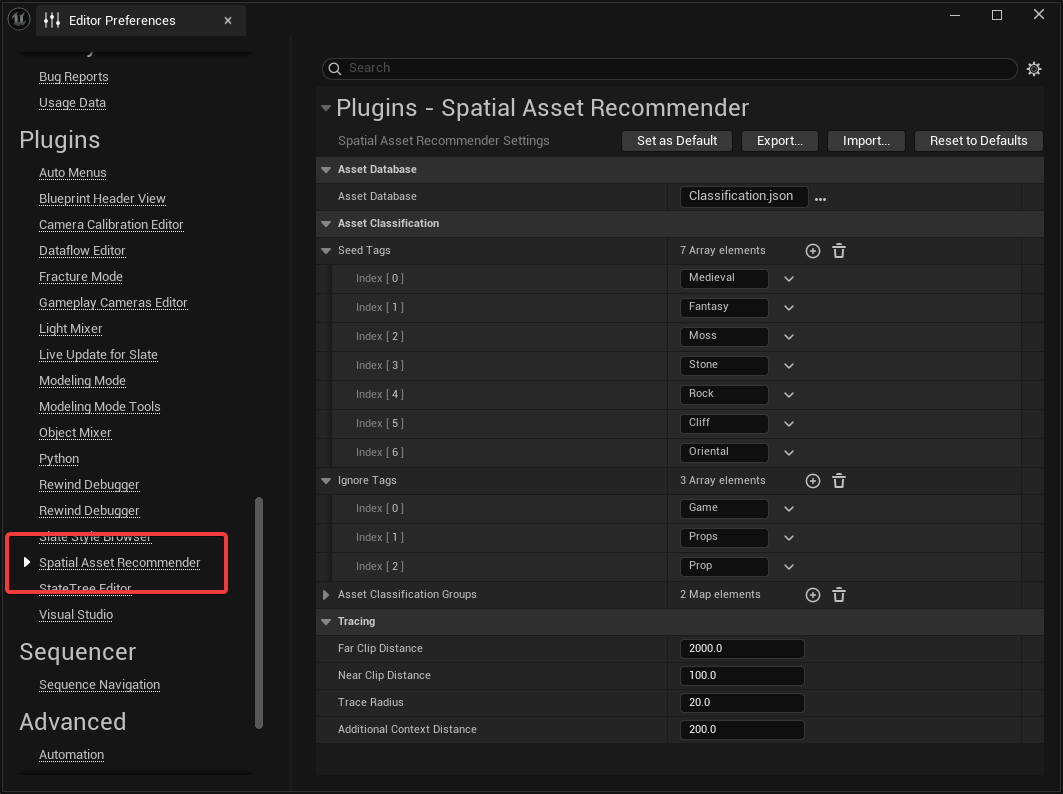
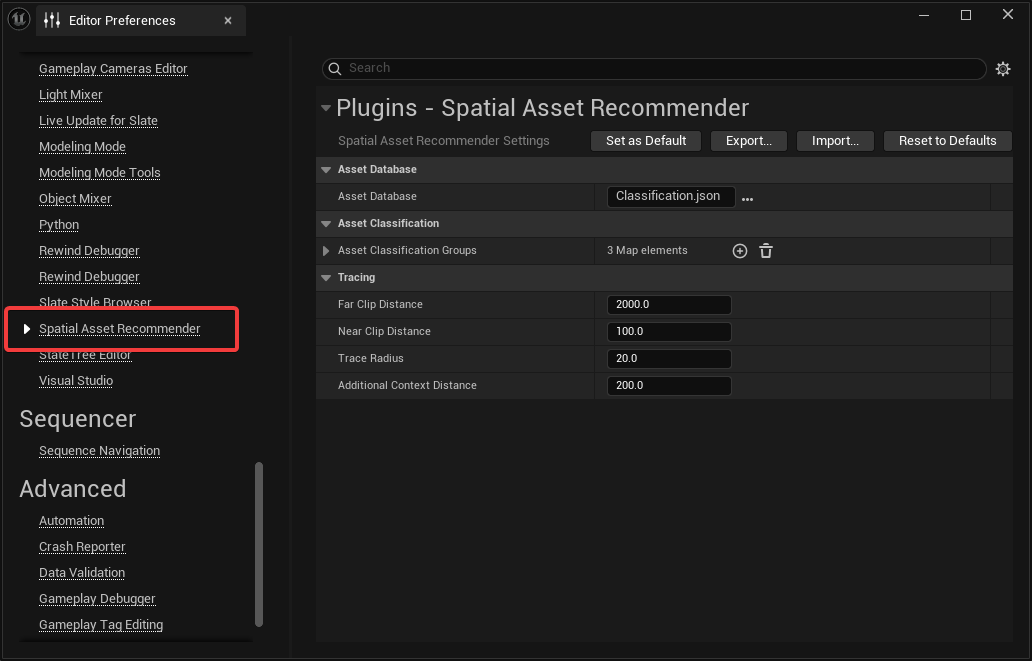
updates documentation, updates screenshots

diff --git a/Default-Classifiers/index.md b/Default-Classifiers/index.md
@@ -11,24 +11,53 @@ It also ignores numbers, so that _Variation05_ will only be tagged as _Variation
 - `Ignore Prefixes`: The classifier ignores asset prefixes such as `SM_`, `T_`, `SK_` and `M_`.
 - `Ignore Names`: These words will be ignored even if they appear in the middle of an asset name.
 
-## Open API Classifier
+## Chat Completions Classifier
 
-The Open API Classifier uses an OpenAI API to classify assets.
-It supports the asset name, the _seed tags_ and _ignore tags_ global lists, the asset metadata and thumbnails.
+The Chat Completions Classifier uses a Chat Completions API to classify assets.
+It supports the asset name, the asset metadata and thumbnails.
+
+The Classifier works in two passes:
+
+1. Collect structured data for all assets. This structured data is then injected into the second pass.
+2. Generate the tags for the assets.
+
+### Prepass
+
+During the prepass, the classifier asks the API about each asset individually.
+The API is tasked to complete a structure of asset description based on its content, materials and the properties of that material.
+
+In the end, the classifier will ask the API to "compress" the structure by removing or collapsing duplicate values.
+This will shrink the data size, which reduces token usage in the classification pass and can lead to better results overall.
+
+The gathered structured data is then used in the classification pass.
+
+### Classification Pass
+
+The classification pass is used to actually generate weighted tags for the individual assets.
+The AI model is only allowed to pick tags from the structure collected during the prepass.
+The classifier then connects the structured data to create weighted tags for the asset database.
+
+### Settings
 
 Each request will be a system prompt (text) and a user prompt (potentially multimodal).
 
 - `API URL`: The url of the API, including the `v1`. Example: `http://localhost:8080/v1`.
 - `API Key`: The authorization key, if needed.
 - `Model`: The name of the model to use for this classifier. If your API supports different models, you can pick different models for each classification group.
+- `Classification Temperature`: Temperature for the AI requests. This is usually a value between `0.0` and `2.0`. Values closer to `0.0` lead to more precise output, while higher values lead to more creative output.
 - `System Prompt`: This is the system prompt for the requests. You can use `{seed_tags}` and `{ignore_tags}` to insert the global lists, as well as `{global_tags}` to insert all currently existing tags.
 - `User Prompt`: This is the user prompt. You can use `{asset_name}` to insert the path and name of the asset. The metadata is currently automatically appended to the user prompt as "Key: Value" fields.
+- `Prepass Model`: The name of the model to use for the prepass.
+- `Prepass Temperature`: The temperature setting for the prepass.
+- `Prepass System Prompt`: The system prompt for the prepass.
+- `Prepass Optimize Prompt`: The optimize prompt for the prepass.
+- `Asset Description Database Path`: The path to the structured output from the prepass.
 - `Timeout`: Timeout for the connection. If your API server is pretty slow, you want to set a high value for this.
 - `Request Delay`: Wait _n_ seconds between requests. This can be used to optimize the number of requests.
 - `Num Retries`: After a classification fails (timeout or bad response), the classifier will retry _n_ times for the same asset before giving up.
 - `Retry Delay`: Wait for _n_ seconds after a failed attempt. This can be useful if your request failed due to a server restart.
 
-The Open API classifier currently supports assets with thumbnails, but it can be extended to support audio, too.
+The Chat Completions classifier currently supports assets with thumbnails, but it can be extended to support audio, too.
 
 Note that this classifier currently uses the _chat completions_ API only.
 

diff --git a/Run-the-Classify-Commandlet/index.md b/Run-the-Classify-Commandlet/index.md
@@ -14,6 +14,7 @@ You probably want to provide more parameters:
 - `-MaxMinutes=N`: Will stop after `N` minutes of total classification time.
 - `-Iterate`: Will skip assets that have already been classified. Ignores hashes.
 - `-Clear`: Ignore the existing database. This will overwrite any existing classified data.
+- `-Prepass`: Do not run the classify pass, only run the prepass for supported classifiers.
 
 The commandlet uses the [existing classifier configuration](../Setup-Classifiers/index.md).
 
